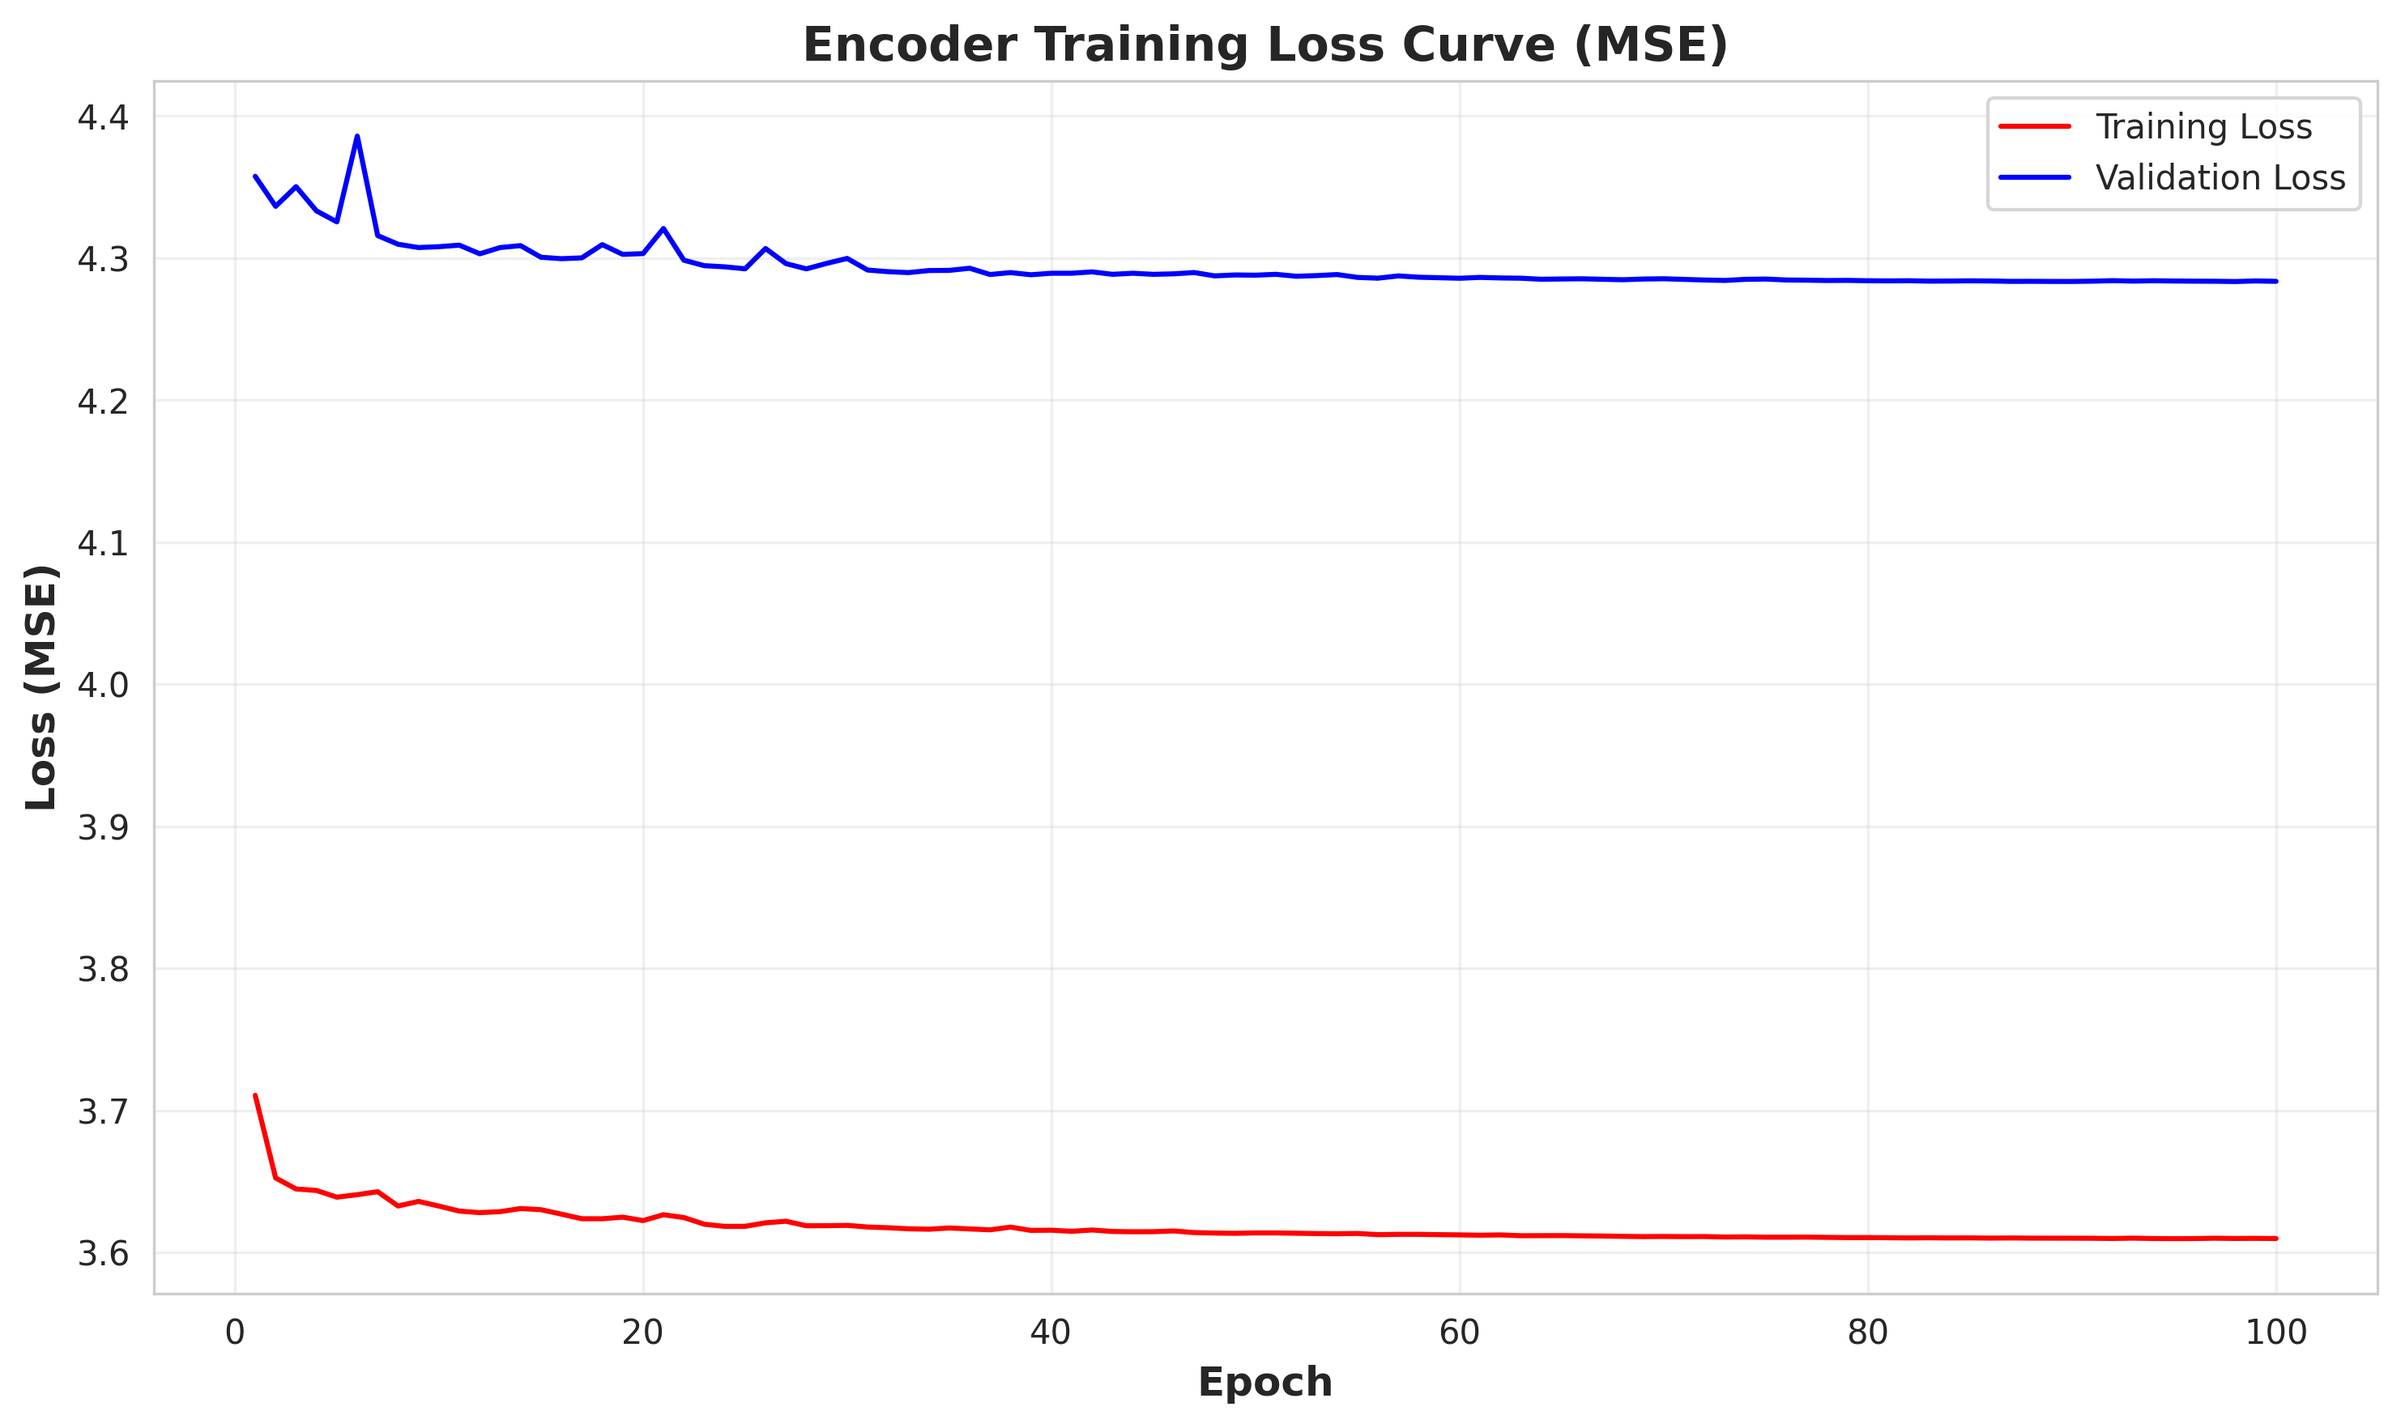
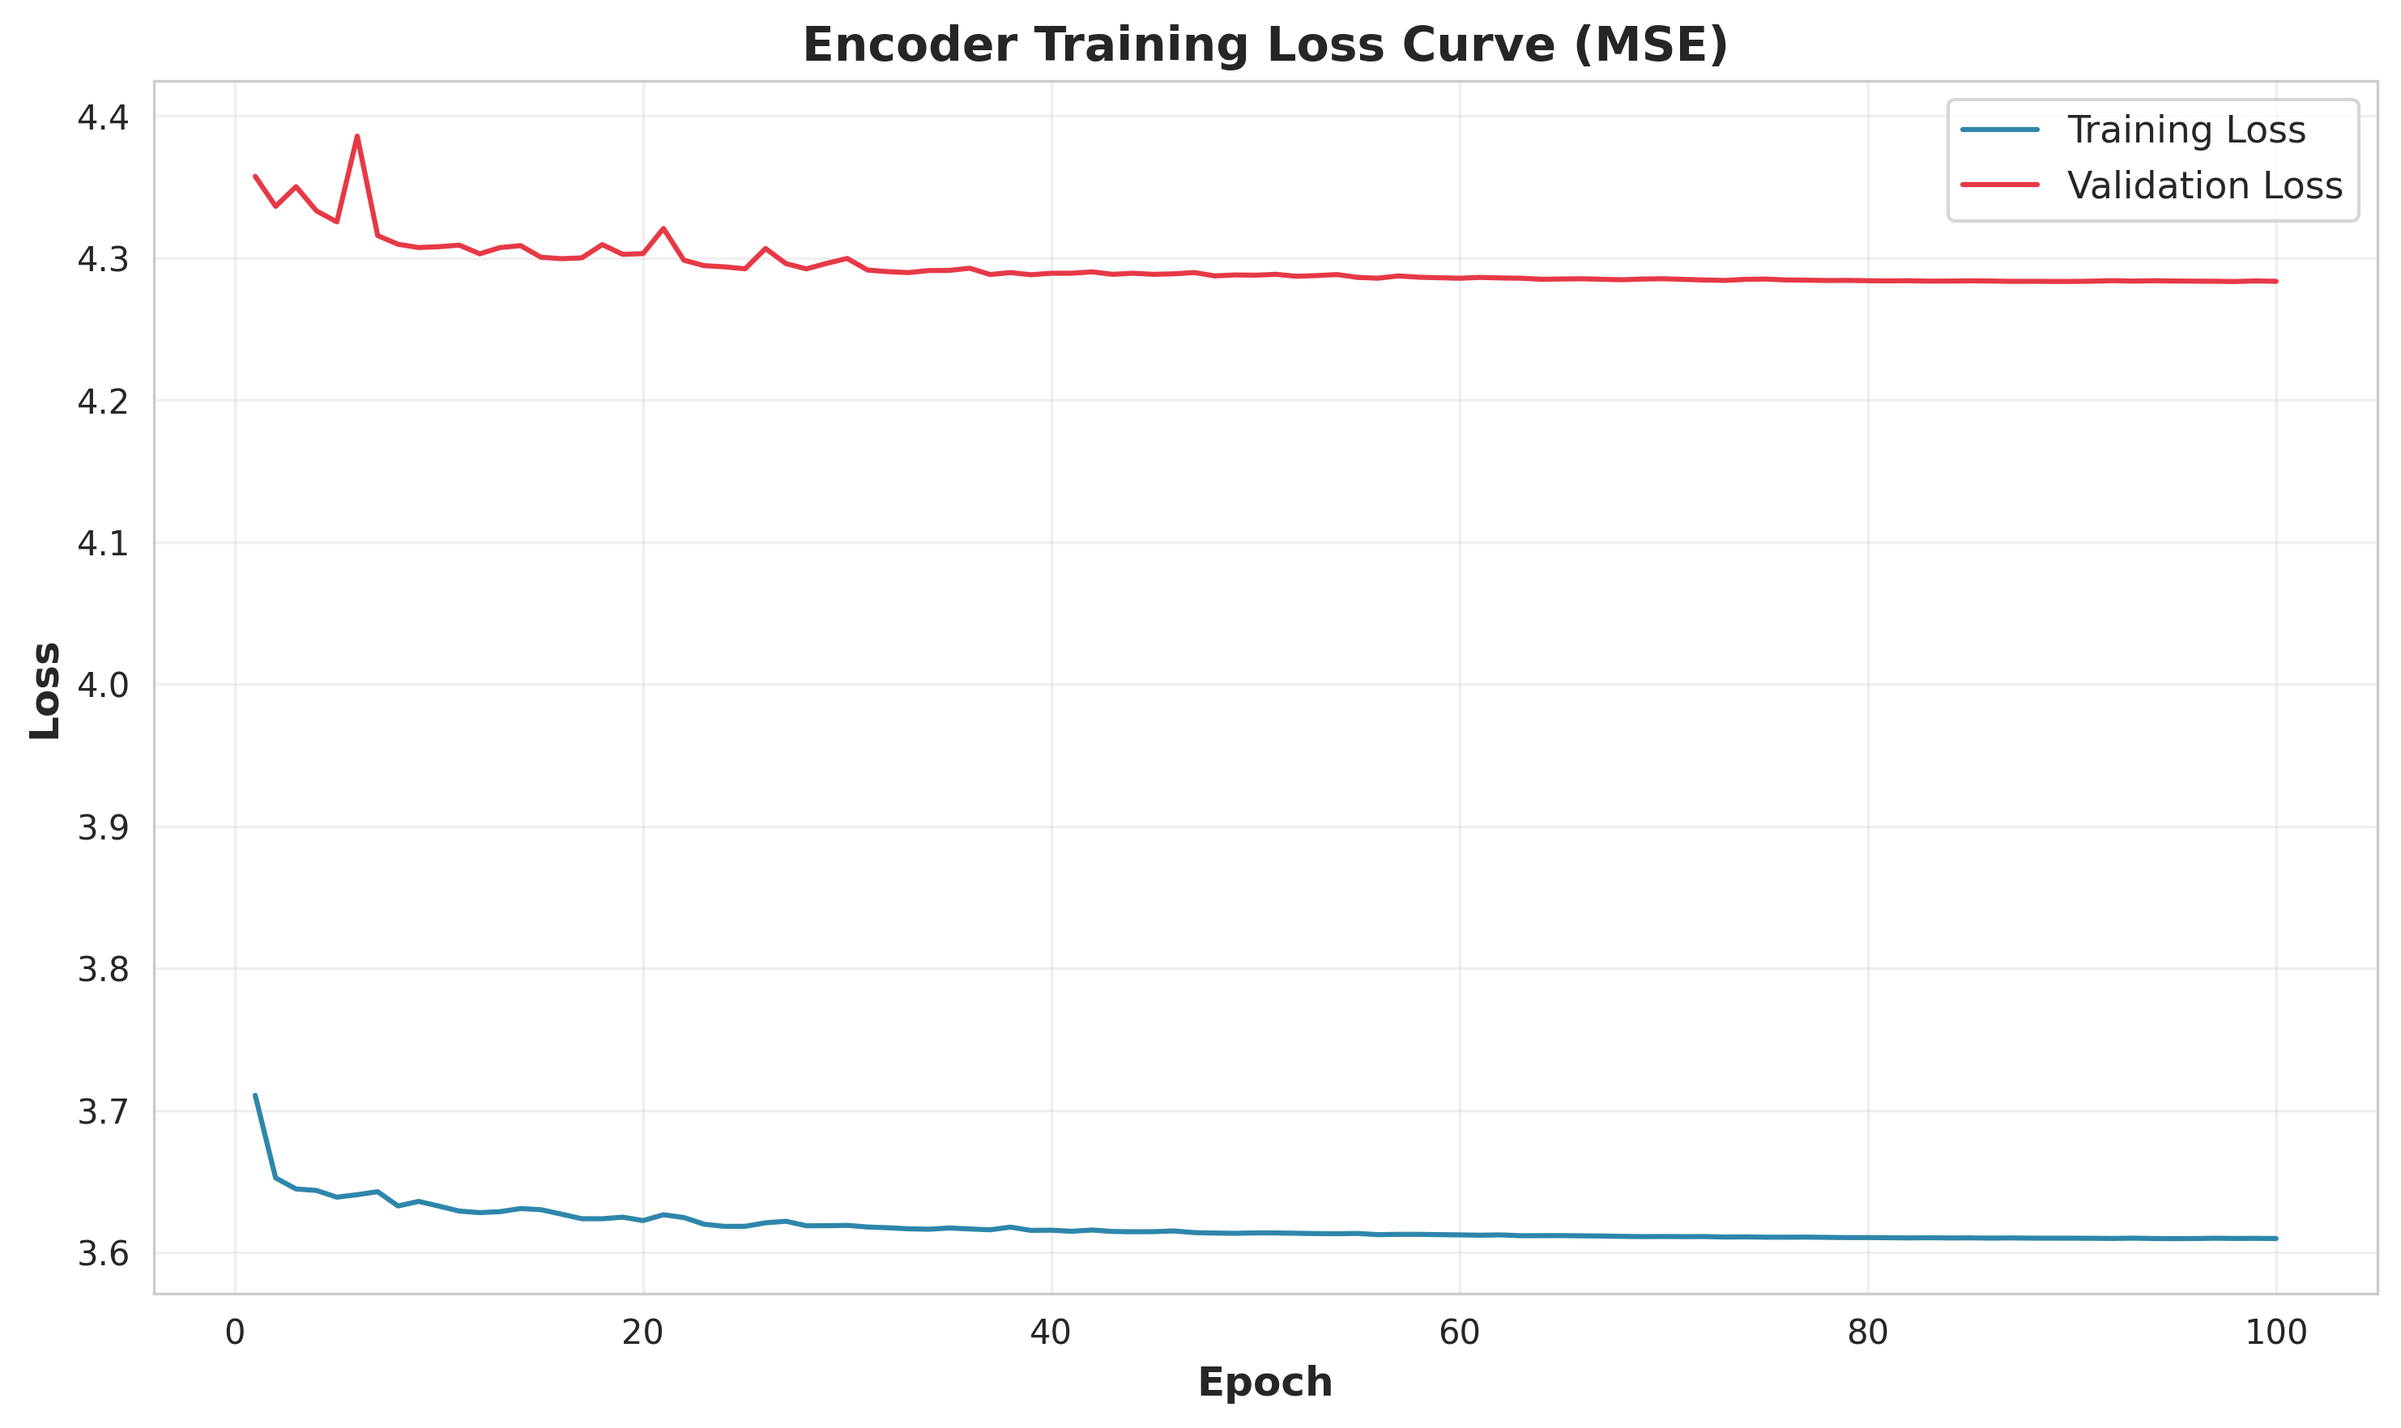
Add pie chart plots for results

diff --git a/plot.py b/plot.py
@@ -3,42 +3,93 @@ import numpy as np
 import seaborn as sns
 import json
 from pathlib import Path
+from typing import Dict, Any
 
-# --- Plotting Function ---
-
-def plot_loss_curve(history_file: str = 'models/training_history.json', output_dir_name: str = 'results/plots'):
+def plot_training_loss(output_dir: Path, history_file: str = 'models/training_history.json'):
+    """Plots the training and validation loss curve from a history JSON file."""
     try:
         with open(history_file, 'r') as f:
             history = json.load(f)
     except FileNotFoundError:
         print(f"Warning: Training history file not found at {history_file}. Skipping loss plot.")
         return
-    
-    output_dir = Path(output_dir_name)
-    output_dir.mkdir(parents=True, exist_ok=True)
-    
+    except json.JSONDecodeError:
+        print(f"Warning: Could not decode JSON from {history_file}. Skipping loss plot.")
+        return
+
     train_loss = history.get('train_loss', [])
     val_loss = history.get('val_loss', [])
-    epochs = range(1, len(train_loss) + 1)
     
     if not train_loss or not val_loss:
-        print("Warning: Training history file is empty or missing loss data. Skipping loss plot.")
+        print("Warning: Training history file is missing loss data. Skipping loss plot.")
         return
+
+    epochs = range(1, len(train_loss) + 1)
     
     fig, ax = plt.subplots(figsize=(10, 6))
-    ax.plot(epochs, train_loss, 'r', label='Training Loss')
-    ax.plot(epochs, val_loss, 'b', label='Validation Loss')
+    ax.plot(epochs, train_loss, color='#2E86AB', label='Training Loss')
+    ax.plot(epochs, val_loss, color='#E63946', label='Validation Loss')
     
     ax.set_title('Encoder Training Loss Curve (MSE)', fontsize=14, fontweight='bold')
     ax.set_xlabel('Epoch', fontsize=12, fontweight='bold')
-    ax.set_ylabel('Loss (MSE)', fontsize=12, fontweight='bold')
-    ax.legend(loc='upper right')
+    ax.set_ylabel('Loss', fontsize=12, fontweight='bold')
+    ax.legend(loc='upper right', fontsize=11)
     ax.grid(True, alpha=0.3)
     
     plt.tight_layout()
     plt.savefig(output_dir / 'encoder_loss_curve.png', dpi=300, bbox_inches='tight')
     plt.close()
     print(f"Saved: {output_dir / 'encoder_loss_curve.png'}")
+
+
+def plot_all_novelty_pies(data: Dict[str, Any], output_dir: Path):
+    """Generates the three novelty breakdown pie charts."""
+    
+    total_sequences_all = data['dataset_overview']['total_sequences']
+    gt_sequences = data['dataset_overview']['sequences_with_ground_truth']
+    no_gt_sequences = data['dataset_overview']['sequences_without_ground_truth']
+    
+    # Values extracted from previous analysis (master_evaluation_table.csv analysis)
+    # Total noise sequences (cluster_id = -1)
+    noise_sequences_count = 35382 
+    clustered_sequences_count = total_sequences_all - noise_sequences_count
+    
+    # Total sequences classified as novel (noise + novel_cluster)
+    predicted_novel_count = 44125 
+    predicted_known_count = total_sequences_all - predicted_novel_count
+
+    fig, axes = plt.subplots(1, 3, figsize=(20, 8))
+    colors = plt.cm.Set2.colors
+    explode_novel = [0, 0.1] 
+
+    # Plot 1: Total Sequences Distribution (Ground Truth Breakdown)
+    total_pie_data = [gt_sequences, no_gt_sequences]
+    total_pie_labels = [f'With GT (Known): {gt_sequences:,}', f'Without GT (Novel): {no_gt_sequences:,}']
+    axes[0].pie(total_pie_data, labels=total_pie_labels, autopct='%1.1f%%', startangle=90, 
+                colors=[colors[2], colors[3]], explode=explode_novel)
+    axes[0].set_title('Total Sequences: Ground Truth Breakdown', fontsize=14, fontweight='bold')
+
+    # Plot 2: Clustering Noise Breakdown
+    clustering_pie_data = [clustered_sequences_count, noise_sequences_count]
+    clustering_pie_labels = [f'Clustered (Assigned ID): {clustered_sequences_count:,}', 
+                            f'Noise (cluster_id = -1): {noise_sequences_count:,}']
+    axes[1].pie(clustering_pie_data, labels=clustering_pie_labels, autopct='%1.1f%%', startangle=90,
+                colors=[colors[4], colors[5]], explode=explode_novel)
+    axes[1].set_title('Predicted Novelty by Clustering (Noise)', fontsize=14, fontweight='bold')
+
+    # Plot 3: Annotation Prediction Breakdown
+    annotation_pie_data = [predicted_known_count, predicted_novel_count]
+    annotation_pie_labels = [f'Predicted Known: {predicted_known_count:,}', 
+                             f'Predicted Novel (Cluster/Noise): {predicted_novel_count:,}']
+    axes[2].pie(annotation_pie_data, labels=annotation_pie_labels, autopct='%1.1f%%', startangle=90,
+                colors=[colors[0], colors[1]], explode=explode_novel)
+    axes[2].set_title('Total Predicted Novel Sequences', fontsize=14, fontweight='bold')
+
+    plt.tight_layout()
+    plt.savefig(output_dir / 'novelty_breakdown_pies.png', dpi=300, bbox_inches='tight')
+    plt.close()
+    print(f"Saved: {output_dir / 'novelty_breakdown_pies.png'}")
+
 
 def generate_evaluation_plots(json_file: str = 'dataset/evaluation/evaluation_metrics.json', output_dir_name: str = 'results/plots'):
     """
@@ -89,10 +140,9 @@ def generate_evaluation_plots(json_file: str = 'dataset/evaluation/evaluation_me
     misclass_to = [item['predicted'] for item in misclass]
     misclass_counts = [item['count'] for item in misclass]
 
-    # 5. Data Sources (Using hardcoded counts from report for consistency)
+    # 5. Data Sources 
     source_names = [Path(src).stem.replace('_accession_full_lineage', '') for src in data['ground_truth_sources']]
-    # NOTE: These counts are hardcoded based on your evaluation report snippet
-    source_counts = [65678, 21278, 7951, 6574] 
+    source_counts = [65678, 21278, 7951, 6574] # Hardcoded counts
     
     # Define colors for reuse
     purity_colors = ['#06A77D', '#F4A261', '#E63946']
@@ -100,8 +150,10 @@ def generate_evaluation_plots(json_file: str = 'dataset/evaluation/evaluation_me
     novelty_bar_colors = ['#E63946', '#F77F00', '#FCBF49', '#06A77D']
 
     # =========================================================================
-    # 1. Classification Accuracy Cascade
+    # PLOTTING THE 8 ORIGINAL CHARTS
     # =========================================================================
+    
+    # 1. Classification Accuracy Cascade
     fig, ax = plt.subplots(figsize=(12, 6))
     ax.plot(taxonomic_levels, accuracies, marker='o', linewidth=3, markersize=10, color='#2E86AB')
     ax.fill_between(range(len(taxonomic_levels)), accuracies, alpha=0.3, color='#2E86AB')
@@ -117,9 +169,7 @@ def generate_evaluation_plots(json_file: str = 'dataset/evaluation/evaluation_me
     plt.savefig(output_dir / 'accuracy_cascade.png', dpi=300, bbox_inches='tight')
     plt.close()
 
-    # =========================================================================
     # 2. Correct vs Incorrect Counts
-    # =========================================================================
     fig, ax = plt.subplots(figsize=(14, 6))
     x = np.arange(len(taxonomic_levels))
     width = 0.35
@@ -136,9 +186,7 @@ def generate_evaluation_plots(json_file: str = 'dataset/evaluation/evaluation_me
     plt.savefig(output_dir / 'correct_vs_incorrect.png', dpi=300, bbox_inches='tight')
     plt.close()
 
-    # =========================================================================
     # 3. Novelty Detection Confusion Matrix
-    # =========================================================================
     fig, ax = plt.subplots(figsize=(8, 6))
     sns.heatmap(confusion_data, annot=True, fmt='d', cmap='RdYlGn', 
                 xticklabels=['Predicted Novel', 'Predicted Known'],
@@ -151,9 +199,7 @@ def generate_evaluation_plots(json_file: str = 'dataset/evaluation/evaluation_me
     plt.savefig(output_dir / 'novelty_confusion_matrix.png', dpi=300, bbox_inches='tight')
     plt.close()
 
-    # =========================================================================
     # 4. Novelty Detection Performance Metrics
-    # =========================================================================
     fig, ax = plt.subplots(figsize=(8, 6))
     bars = ax.barh(novelty_metrics, novelty_values, color=novelty_bar_colors, edgecolor='black', linewidth=1.5)
     ax.set_xlabel('Score', fontsize=12, fontweight='bold')
@@ -166,9 +212,7 @@ def generate_evaluation_plots(json_file: str = 'dataset/evaluation/evaluation_me
     plt.savefig(output_dir / 'novelty_metrics.png', dpi=300, bbox_inches='tight')
     plt.close()
 
-    # =========================================================================
     # 5. Cluster Purity Distribution
-    # =========================================================================
     fig, ax = plt.subplots(figsize=(10, 6))
     bars = ax.bar(purity_categories, purity_counts, color=purity_colors, edgecolor='black', linewidth=1.5)
     ax.set_ylabel('Number of Clusters', fontsize=12, fontweight='bold')
@@ -184,9 +228,7 @@ def generate_evaluation_plots(json_file: str = 'dataset/evaluation/evaluation_me
     plt.savefig(output_dir / 'cluster_purity.png', dpi=300, bbox_inches='tight')
     plt.close()
 
-    # =========================================================================
     # 6. Top Misclassification Patterns
-    # =========================================================================
     fig, ax = plt.subplots(figsize=(12, 8))
     labels = [f'{f} → {t}' for f, t in zip(misclass_from, misclass_to)]
     y_pos = np.arange(len(labels))
@@ -203,9 +245,7 @@ def generate_evaluation_plots(json_file: str = 'dataset/evaluation/evaluation_me
     plt.savefig(output_dir / 'top_misclassifications.png', dpi=300, bbox_inches='tight')
     plt.close()
 
-    # =========================================================================
     # 7. Ground Truth Data Sources Distribution
-    # =========================================================================
     fig, ax = plt.subplots(figsize=(10, 8))
     source_labels_pie = [f'{name}\n({count:,})' for name, count in zip(source_names, source_counts)]
     ax.pie(source_counts, labels=source_labels_pie, autopct='%1.1f%%',
@@ -215,14 +255,11 @@ def generate_evaluation_plots(json_file: str = 'dataset/evaluation/evaluation_me
     plt.tight_layout()
     plt.savefig(output_dir / 'data_sources.png', dpi=300, bbox_inches='tight')
     plt.close()
-
-    # =========================================================================
+    
     # 8. Summary Dashboard (Consolidated Plot)
-    # =========================================================================
     fig = plt.figure(figsize=(16, 10))
     gs = fig.add_gridspec(3, 3, hspace=0.3, wspace=0.3)
 
-    # Subplot 1: Accuracy Cascade
     ax1 = fig.add_subplot(gs[0, :])
     ax1.plot(taxonomic_levels, accuracies, marker='o', linewidth=3, markersize=8, color='#2E86AB')
     ax1.fill_between(range(len(taxonomic_levels)), accuracies, alpha=0.3, color='#2E86AB')
@@ -232,14 +269,12 @@ def generate_evaluation_plots(json_file: str = 'dataset/evaluation/evaluation_me
     ax1.set_ylim(0, 105)
     plt.setp(ax1.xaxis.get_majorticklabels(), rotation=45, ha='right')
 
-    # Subplot 2: Novelty Confusion Matrix
     ax2 = fig.add_subplot(gs[1, 0])
     sns.heatmap(confusion_data, annot=True, fmt='d', cmap='RdYlGn', 
                 xticklabels=['Novel', 'Known'], yticklabels=['Novel', 'Known'],
                 cbar=False, ax=ax2, linewidths=1)
     ax2.set_title('Novelty Detection', fontweight='bold', fontsize=12)
 
-    # Subplot 3: Cluster Purity
     ax3 = fig.add_subplot(gs[1, 1])
     ax3.bar(range(3), purity_counts, color=purity_colors, edgecolor='black')
     ax3.set_xticks(range(3))
@@ -248,7 +283,6 @@ def generate_evaluation_plots(json_file: str = 'dataset/evaluation/evaluation_me
     ax3.set_title('Cluster Purity', fontweight='bold', fontsize=12)
     ax3.grid(True, alpha=0.3, axis='y')
 
-    # Subplot 4: Novelty Metrics
     ax4 = fig.add_subplot(gs[1, 2])
     ax4.barh(novelty_metrics, novelty_values, color=novelty_bar_colors)
     ax4.set_xlim(0, 1)
@@ -256,20 +290,17 @@ def generate_evaluation_plots(json_file: str = 'dataset/evaluation/evaluation_me
     ax4.grid(True, alpha=0.3, axis='x')
     ax4.tick_params(axis='y', labelsize=9)
 
-    # Subplot 5: Data Sources Pie Chart
     ax5 = fig.add_subplot(gs[2, 0])
     short_names = [name.split('_')[0] for name in source_names]
     ax5.pie(source_counts, labels=short_names, autopct='%1.0f%%',
             colors=colors_pie, textprops={'fontsize': 9})
     ax5.set_title('Data Sources', fontweight='bold', fontsize=12)
 
-    # Subplot 6: Key Statistics (Text)
     ax6 = fig.add_subplot(gs[2, 1:])
     ax6.axis('off')
     total_seqs_all = data['dataset_overview']['total_sequences']
     with_gt = data['dataset_overview']['sequences_with_ground_truth']
     
-    # Safely retrieve accuracy for genus and species
     genus_acc = next((item['accuracy'] * 100 for item in data['accuracy_by_level'] if item['level'] == 'genus'), 0.0)
     species_acc = next((item['accuracy'] * 100 for item in data['accuracy_by_level'] if item['level'] == 'species'), 0.0)
 
@@ -286,7 +317,6 @@ def generate_evaluation_plots(json_file: str = 'dataset/evaluation/evaluation_me
     ]
     y_start = 0.9
     for i, stat in enumerate(key_stats):
-        # Apply conditional coloring for clarity
         is_low = ('Accuracy' in stat and float(stat.split(':')[1].replace('%', '').strip()) < 50)
         color = '#E63946' if is_low or ('F1-Score' in stat and float(stat.split(':')[1].strip()) < 0.5) else '#2E86AB'
         
@@ -298,12 +328,17 @@ def generate_evaluation_plots(json_file: str = 'dataset/evaluation/evaluation_me
                  fontsize=16, fontweight='bold', y=0.98)
     plt.savefig(output_dir / 'summary_dashboard.png', dpi=300, bbox_inches='tight')
     plt.close()
+    
+    # =========================================================================
+    # CALLING NEW PLOTTING FUNCTIONS
+    # =========================================================================
+    plot_all_novelty_pies(data, output_dir)
+    plot_training_loss(output_dir)
 
 
 def main():
     """Main program execution block."""
     generate_evaluation_plots()
-    plot_loss_curve()
     print("\nEvaluation visualization generation complete! Saved plots to results/plots/.")
 
 
